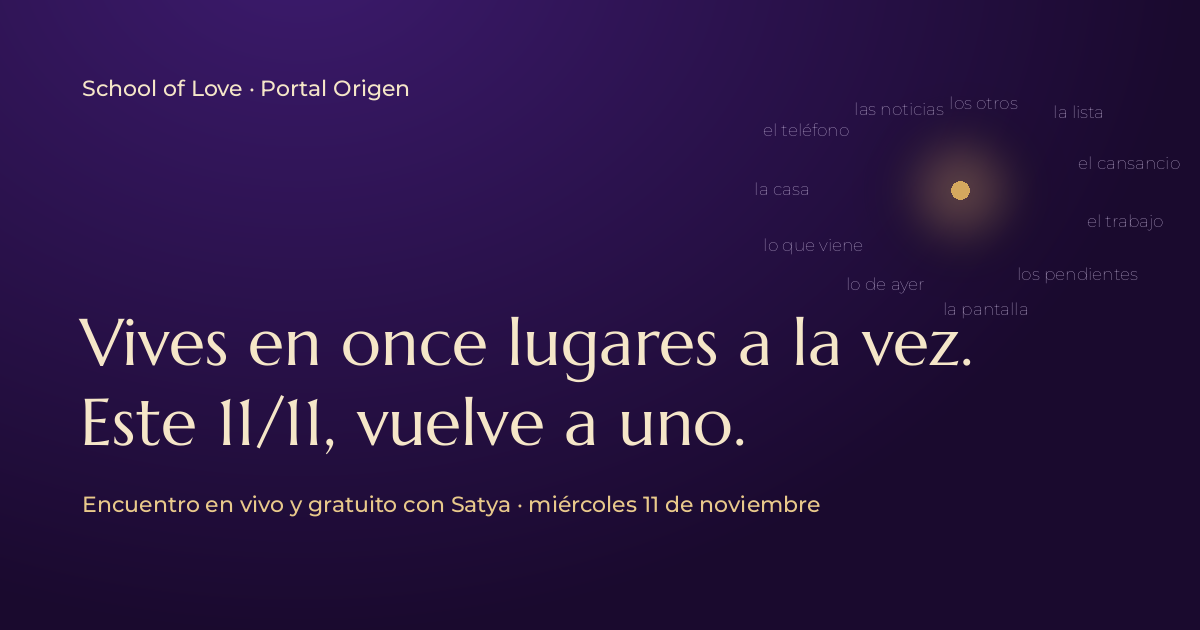
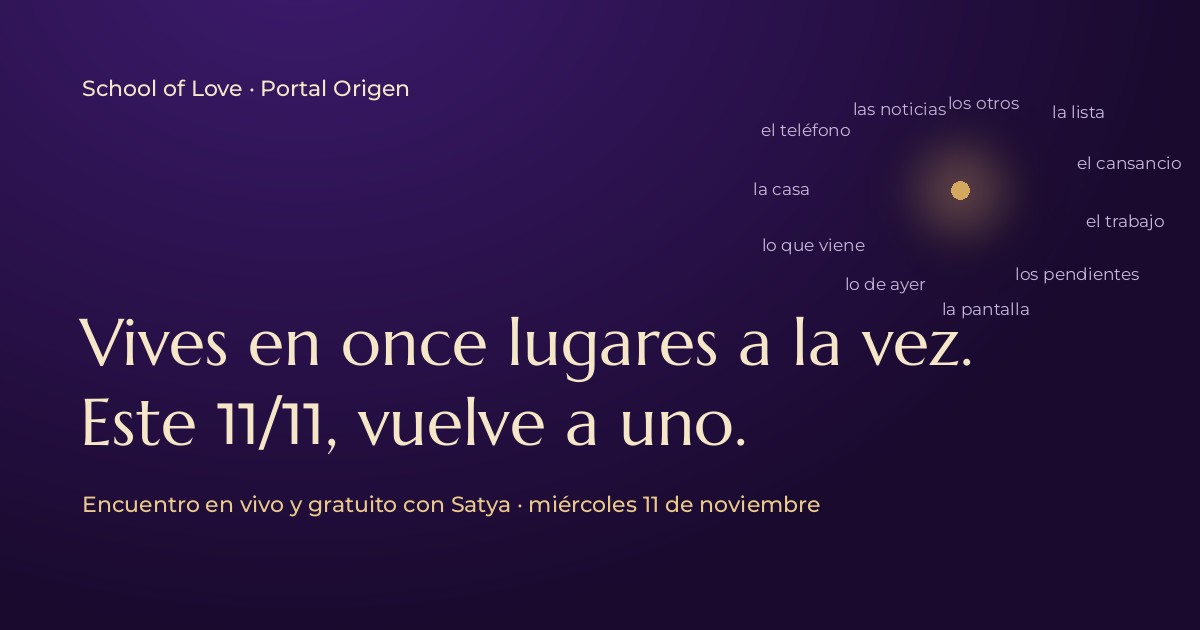
Publica la landing «Vuelve a ti · Camino al 11:11» como Worker
Agrega el job de despliegue y corrige la lectura de los números en los títulos.

Claude-Session: https://claude.ai/code/session_01CkkJdeyrMci8fiavRvV3Jx

diff --git a/vuelve-a-ti/public/index.html b/vuelve-a-ti/public/index.html
@@ -45,7 +45,7 @@
           <span style="--x:66%;--y:42%;--d:.60s">el cansancio</span>
           <i class="uno"></i>
         </div>
-        <h1 id="titulo">Vives en once lugares a la vez. Este 11/11, vuelve a uno.</h1>
+        <h1 id="titulo">Vives en once lugares a la vez. Este <span class="num">11/11</span>, vuelve a uno.</h1>
         <p class="bajada">Un encuentro en vivo y gratuito con Satya. Si te inscribes hoy, empezamos juntos el camino: una guía, una respiración corta y cuatro lunes de Satsang hasta llegar al 11:11.</p>
         <div class="cuando">
           <p><strong>Miércoles 11 de noviembre</strong></p>
@@ -84,7 +84,7 @@
 
     <section class="seccion" aria-labelledby="t-camino">
       <div class="contenedor">
-        <h2 id="t-camino">El camino hasta el 11:11</h2>
+        <h2 id="t-camino">El camino hasta el <span class="num">11:11</span></h2>
         <p class="intro">Cada lunes, un capítulo en vivo. Entre lunes, prácticas cortas para hacer en tu día. Si te pierdes uno, te llega la grabación.</p>
         <ol class="recorrido">
           <li data-fin="2026-10-12T17:30:00Z">
@@ -119,12 +119,12 @@
           </li>
           <li class="puerta" data-fin="2026-11-11T17:15:00Z">
             <span class="fecha">Miércoles 11 de noviembre · 13:00 Chile, 17:00 España, 16:00 Canarias</span>
-            <span class="que">Portal 11:11</span>
+            <span class="que">Portal <span class="num">11:11</span></span>
             <span class="detalle">Encuentro en vivo de unos 70 minutos, por Zoom y YouTube. Si no puedes conectarte, te enviamos la grabación.</span>
           </li>
           <li class="despues">
             <span class="fecha">Desde el 14 de noviembre</span>
-            <span class="que">Del 11 al Uno · Un retiro dentro de tu propia vida</span>
+            <span class="que">Del <span class="num">11</span> al Uno · Un retiro dentro de tu propia vida</span>
             <span class="detalle">Para quien quiera seguir después del 11:11. Lo abrimos primero a quienes vienen haciendo el camino.</span>
           </li>
         </ol>
@@ -189,7 +189,7 @@
     </section>
 
     <section class="contenedor cierre" aria-labelledby="t-cierre">
-      <h2 id="t-cierre">El 11/11 nos encontramos en vivo. Empieza hoy el camino.</h2>
+      <h2 id="t-cierre">El <span class="num">11/11</span> nos encontramos en vivo. Empieza hoy el camino.</h2>
       <a class="boton" href="#inscripcion">Inscribirme gratis</a>
     </section>
   </main>

diff --git a/vuelve-a-ti/public/styles.css b/vuelve-a-ti/public/styles.css
@@ -194,3 +194,6 @@ h3 { font-size: 1.3rem; line-height: 1.3; }
   .hero { grid-template-columns: minmax(0, 1.2fr) minmax(340px, 0.8fr); gap: 64px; padding-top: 40px; }
   .tarjeta-form { position: sticky; top: 24px; margin-top: 120px; padding: 30px 28px 26px; }
 }
+
+/* Los números en Montserrat: en Marcellus el 1 se lee como una I */
+.num { font-family: var(--texto); font-weight: 500; font-size: 0.9em; letter-spacing: -0.01em; }
